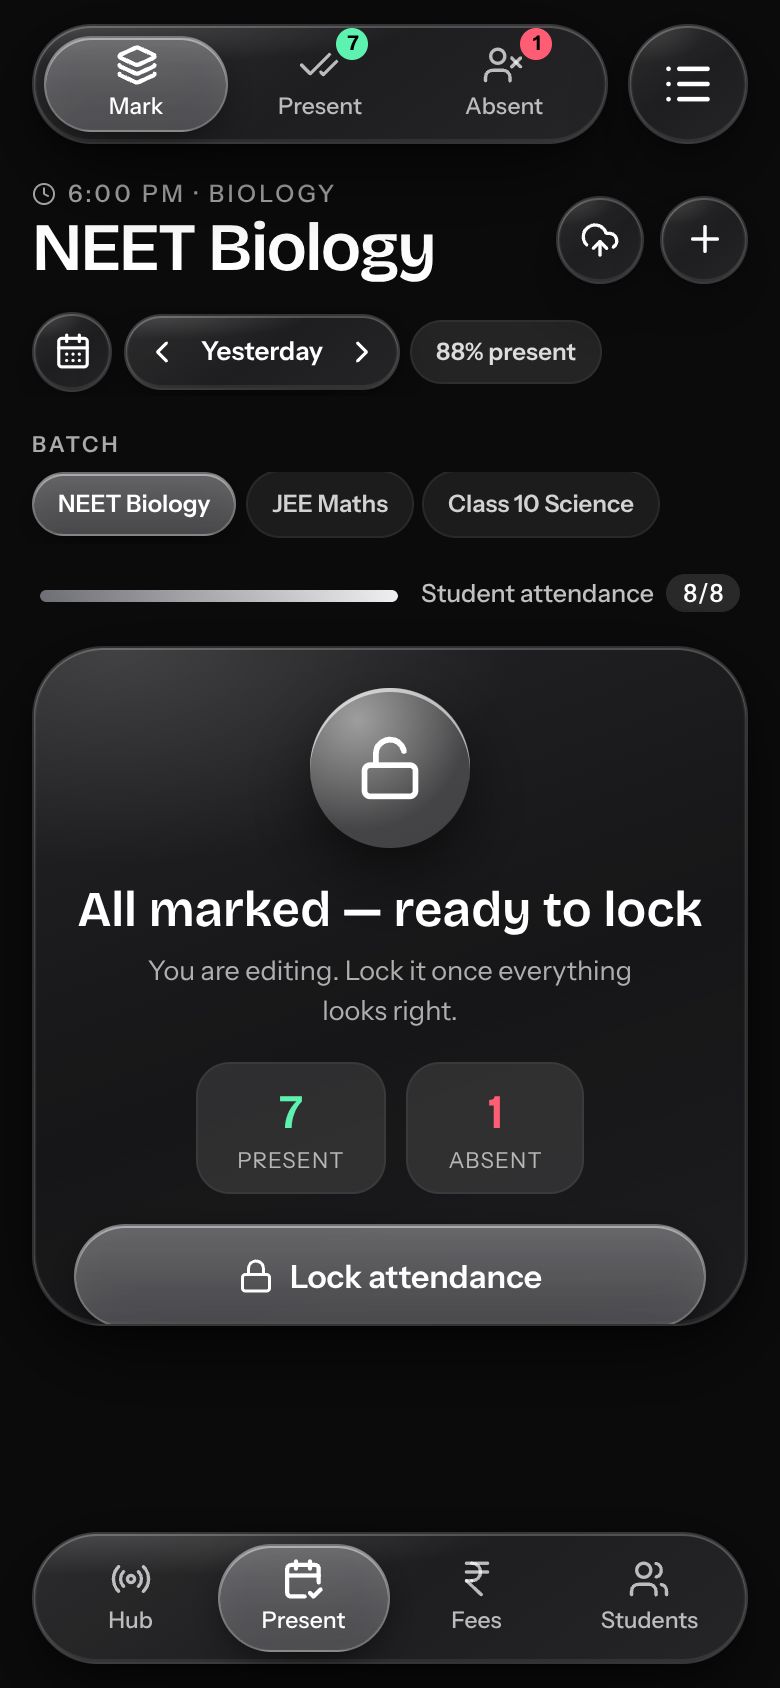
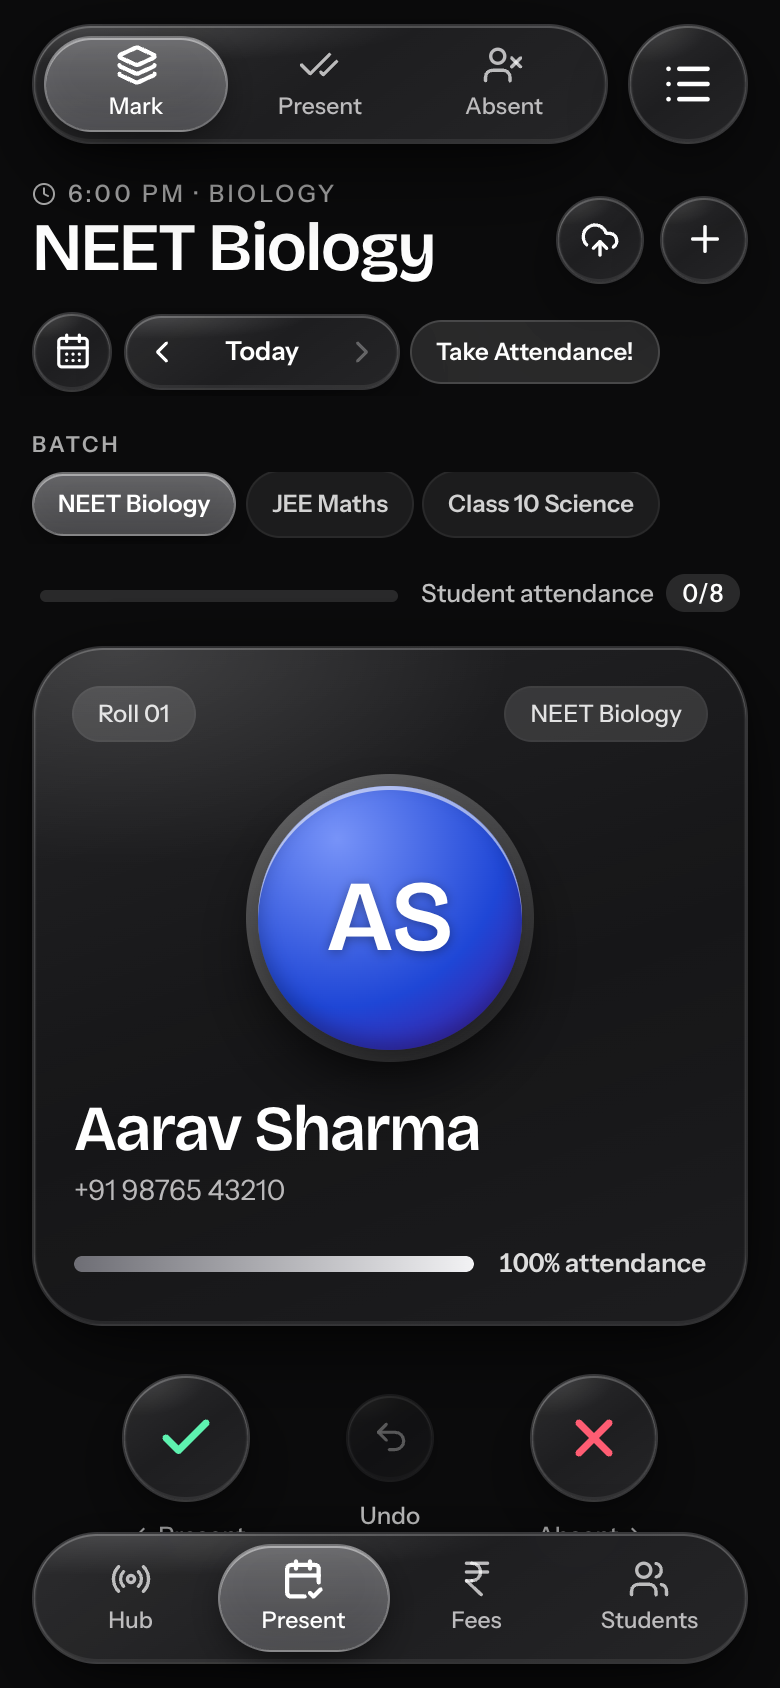
manifest: six install screenshots instead of two
Android's richer install sheet showed only two tiles. It now shows the same
six screens the README grid uses, in the same order: the swipe deck, the
locked day, fees, students, the Student Hub manager and an invoice.

The files in public/screenshots/ are byte-for-byte copies of
docs/screenshots/ (tests/pwa.test.ts fails if they drift), all 780x1688
narrow, each with a label. Manifest cache-buster goes to ?v=18 so installed
copies pick the new sheet up.

diff --git a/tests/pwa.test.ts b/tests/pwa.test.ts
@@ -103,7 +103,41 @@ describe('Install surfaces (PWA)', () => {
     expect(portal).toContain("url.searchParams.delete('go')")
   })
 
-  it('PWA-06 both install sheets have screenshots that really ship, at the size they claim', () => {
+  it('PWA-06 the install sheet is a carousel, not two tiles: the README screens ship in order', () => {
+    const shots = manifest().screenshots as { src: string; sizes: string; form_factor: string; label: string }[]
+    expect(shots.length).toBeGreaterThanOrEqual(4)
+    // Same order as the README grid: deck, marked day, fees, students, hub, invoice.
+    expect(shots.map((s) => s.src)).toEqual([
+      'screenshots/install-attendance.png',
+      'screenshots/install-marked.png',
+      'screenshots/install-fees.png',
+      'screenshots/install-students.png',
+      'screenshots/install-hub.png',
+      'screenshots/install-invoice.png',
+    ])
+    for (const shot of shots) {
+      expect(shot.form_factor).toBe('narrow')
+      expect(shot.label.length).toBeGreaterThan(10)
+    }
+    // Each install screenshot is byte-for-byte the picture the README shows, so the two cannot drift.
+    const pairs: [string, string][] = [
+      ['install-attendance', '01-attendance'],
+      ['install-marked', '02-marked'],
+      ['install-fees', '03-fees'],
+      ['install-students', '04-students'],
+      ['install-hub', '05-hub'],
+      ['install-invoice', '09-invoice'],
+    ]
+    const readme = read('README.md')
+    for (const [install, doc] of pairs) {
+      expect(readme, doc).toContain(`docs/screenshots/${doc}.png`)
+      const a = readFileSync(resolve(process.cwd(), `public/screenshots/${install}.png`))
+      const b = readFileSync(resolve(process.cwd(), `docs/screenshots/${doc}.png`))
+      expect(a.equals(b), `${install}.png is docs/screenshots/${doc}.png`).toBe(true)
+    }
+  })
+
+  it('PWA-07 both install sheets have screenshots that really ship, at the size they claim', () => {
     for (const shot of manifest().screenshots as { src: string; sizes: string }[]) {
       expect(has(`public/${shot.src}`), shot.src).toBe(true)
       expect(pngSize(`public/${shot.src}`)).toBe(shot.sizes)
@@ -114,7 +148,7 @@ describe('Install surfaces (PWA)', () => {
     }
   })
 
-  it('PWA-07 the members we deliberately left out stay out, and the reasons are written down', () => {
+  it('PWA-08 the members we deliberately left out stay out, and the reasons are written down', () => {
     const m = manifest()
     for (const absent of ['iarc_rating_id', 'widgets', 'related_applications', 'scope_extensions']) {
       expect(absent in m, absent).toBe(false)
@@ -127,8 +161,8 @@ describe('Install surfaces (PWA)', () => {
     expect(doc).toContain('file_handlers')
   })
 
-  it('PWA-08 the new manifests are not served from a stale cache', () => {
-    expect(read('index.html')).toContain('manifest.webmanifest?v=17')
+  it('PWA-09 the new manifests are not served from a stale cache', () => {
+    expect(read('index.html')).toContain('manifest.webmanifest?v=18')
     expect(read('student-hub/index.html')).toContain('manifest.webmanifest?v=3')
     expect(read('student-hub/index.html')).toContain('portal.js?v=16')
     expect(read('public/sw.js')).toContain("const VERSION = 'coachsathi-v30'")

diff --git a/tests/openSource.test.ts b/tests/openSource.test.ts
@@ -143,7 +143,7 @@ describe('Installable PWA (PWA)', () => {
 
     // Install screenshots drive the richer Android install sheet; both files must ship in public/.
     expect(Array.isArray(m.screenshots)).toBe(true)
-    expect(m.screenshots.length).toBeGreaterThanOrEqual(2)
+    expect(m.screenshots.length).toBeGreaterThanOrEqual(4)
     for (const shot of m.screenshots as { src: string; sizes: string; form_factor: string }[]) {
       expect(has(`public/${shot.src}`), shot.src).toBe(true)
       expect(shot.form_factor).toBe('narrow')
@@ -163,7 +163,7 @@ describe('Installable PWA (PWA)', () => {
   })
 
   it('PWA-05 both pages bust the manifest cache when the manifest changes', () => {
-    expect(read('index.html')).toContain('manifest.webmanifest?v=17')
+    expect(read('index.html')).toContain('manifest.webmanifest?v=18')
     expect(read('student-hub/index.html')).toContain('manifest.webmanifest?v=3')
   })
 })

diff --git a/index.html b/index.html
@@ -18,7 +18,7 @@
     <meta name="apple-mobile-web-app-capable" content="yes" />
     <meta name="apple-mobile-web-app-status-bar-style" content="black-translucent" />
     <meta name="apple-mobile-web-app-title" content="Coaching Sathi" />
-    <link rel="manifest" href="./manifest.webmanifest?v=17" />
+    <link rel="manifest" href="./manifest.webmanifest?v=18" />
     <link rel="apple-touch-icon" sizes="180x180" href="./apple-touch-icon-v15.png" />
     <link rel="preconnect" href="https://fonts.googleapis.com" />
     <link rel="preconnect" href="https://fonts.gstatic.com" crossorigin />

diff --git a/docs/pwa.md b/docs/pwa.md
@@ -15,7 +15,7 @@ anything that would be a false claim is deliberately absent. `tests/pwa.test.ts`
 | `launch_handler` | A second launch focuses the existing window instead of a duplicate | `client_mode: "navigate-existing"` (browser-implemented) |
 | `edge_side_panel` | Preferred width if the app is opened in a side panel | `preferred_width: 420` (browser-implemented) |
 | `display_override` | Installed windows fall back to `minimal-ui` where `standalone` is unavailable | `["standalone", "minimal-ui"]` |
-| `screenshots` | Richer Android install sheet, one per app | `public/screenshots/*` and `student-hub/screenshots/*`, both `780x1688` narrow |
+| `screenshots` | Android's richer install sheet: a six-shot carousel for the teacher app, so the install card never shows just two tiles. The shots are the README's own grid (deck, marked day, fees, students, hub, invoice) copied byte for byte into `public/screenshots/`; `tests/pwa.test.ts` fails if the two sets drift. The Student Hub ships its own single `780x1688` shot | `public/screenshots/*`, `student-hub/screenshots/portal-hub.png` |
 | `lang`, `dir`, `id`, `start_url`, `scope`, `display` | Base install identity for both apps | both manifests |
 | `prefer_related_applications: false` | No store app is being advertised | both manifests |
 | Service worker | Offline shell, and the share POST handler | `public/sw.js` (`coachsathi-v30`), registered in `src/main.tsx`; the portal registers `student-hub/sw.js` for push |

diff --git a/README.md b/README.md
@@ -70,7 +70,8 @@ Supabase, and **no demo login is published here** — creating an account takes 
   grouped by folder for exactly the selected batch and teacher, and optional push alerts. Relative
   assets, anonymous SELECT-only client.
 - **Installable PWA** — standalone display, transparent-corner app icons at every size, maskable icon,
-  Apple touch icons, an offline-first service worker and install screenshots (`public/`, `sw.js`).
+  Apple touch icons, an offline-first service worker and an install sheet that shows the six screens above
+  (`public/screenshots/`, `sw.js`).
   The install surfaces are wired, not decorative: **shortcuts** open Attendance / Fees / Students / Hub,
   a `web+coachingsathi:` link does the same, opening a `.json` backup with the app goes straight to the
   restore confirmation, and the Android **share sheet** fills "Add student" from a shared contact.
